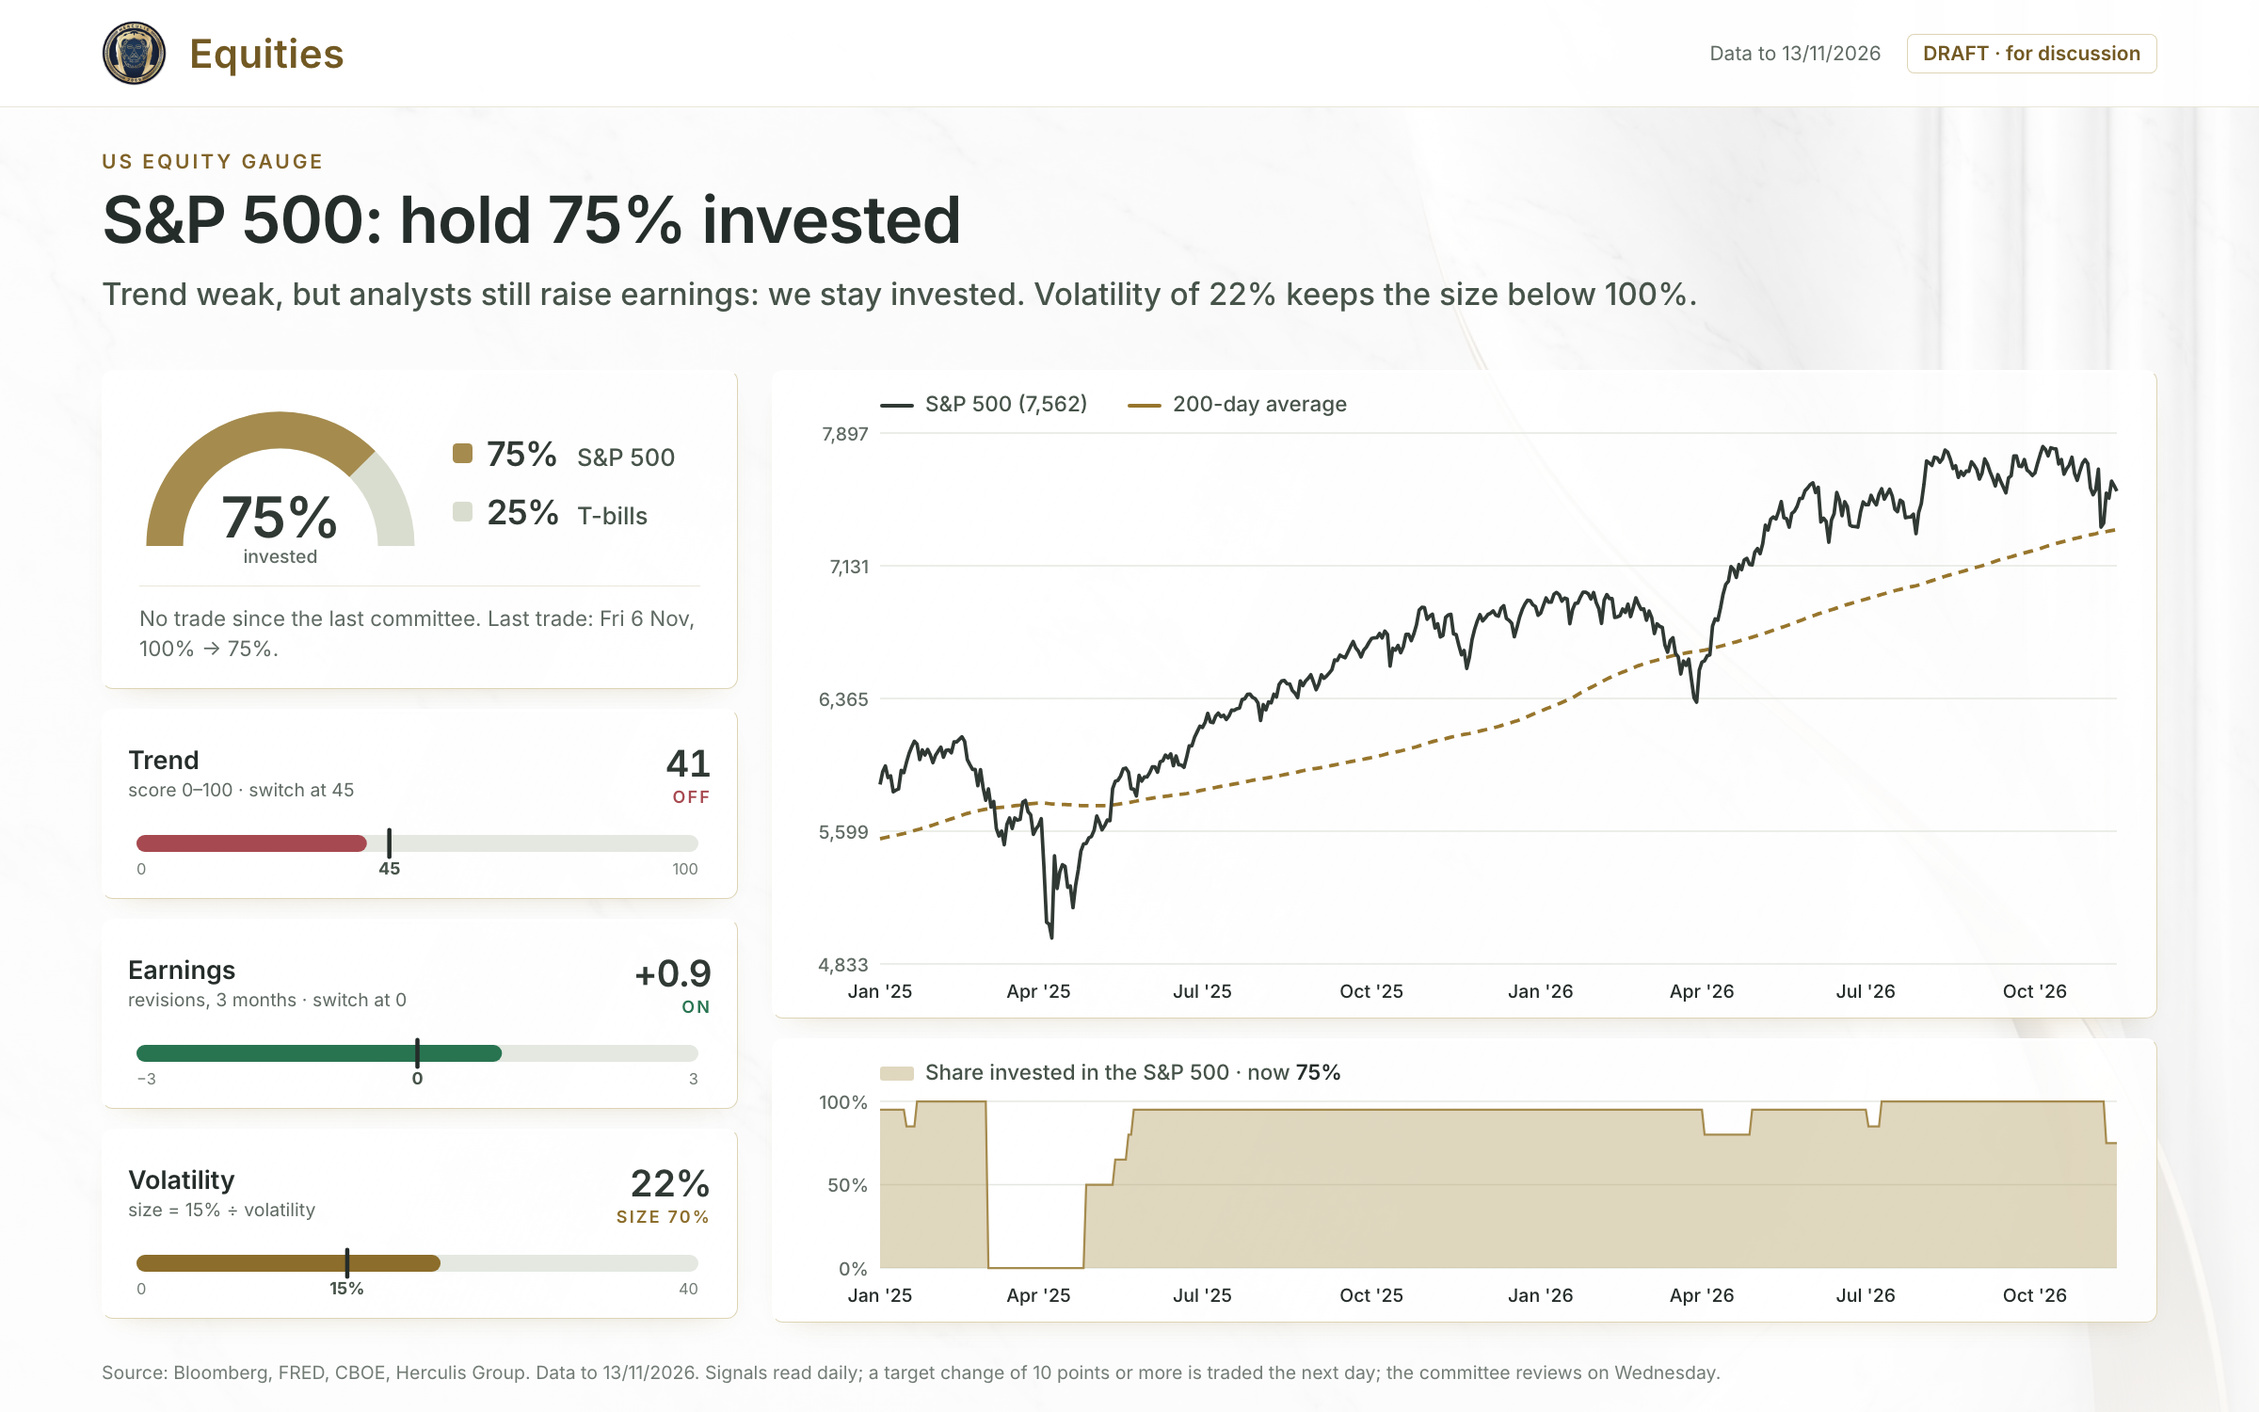
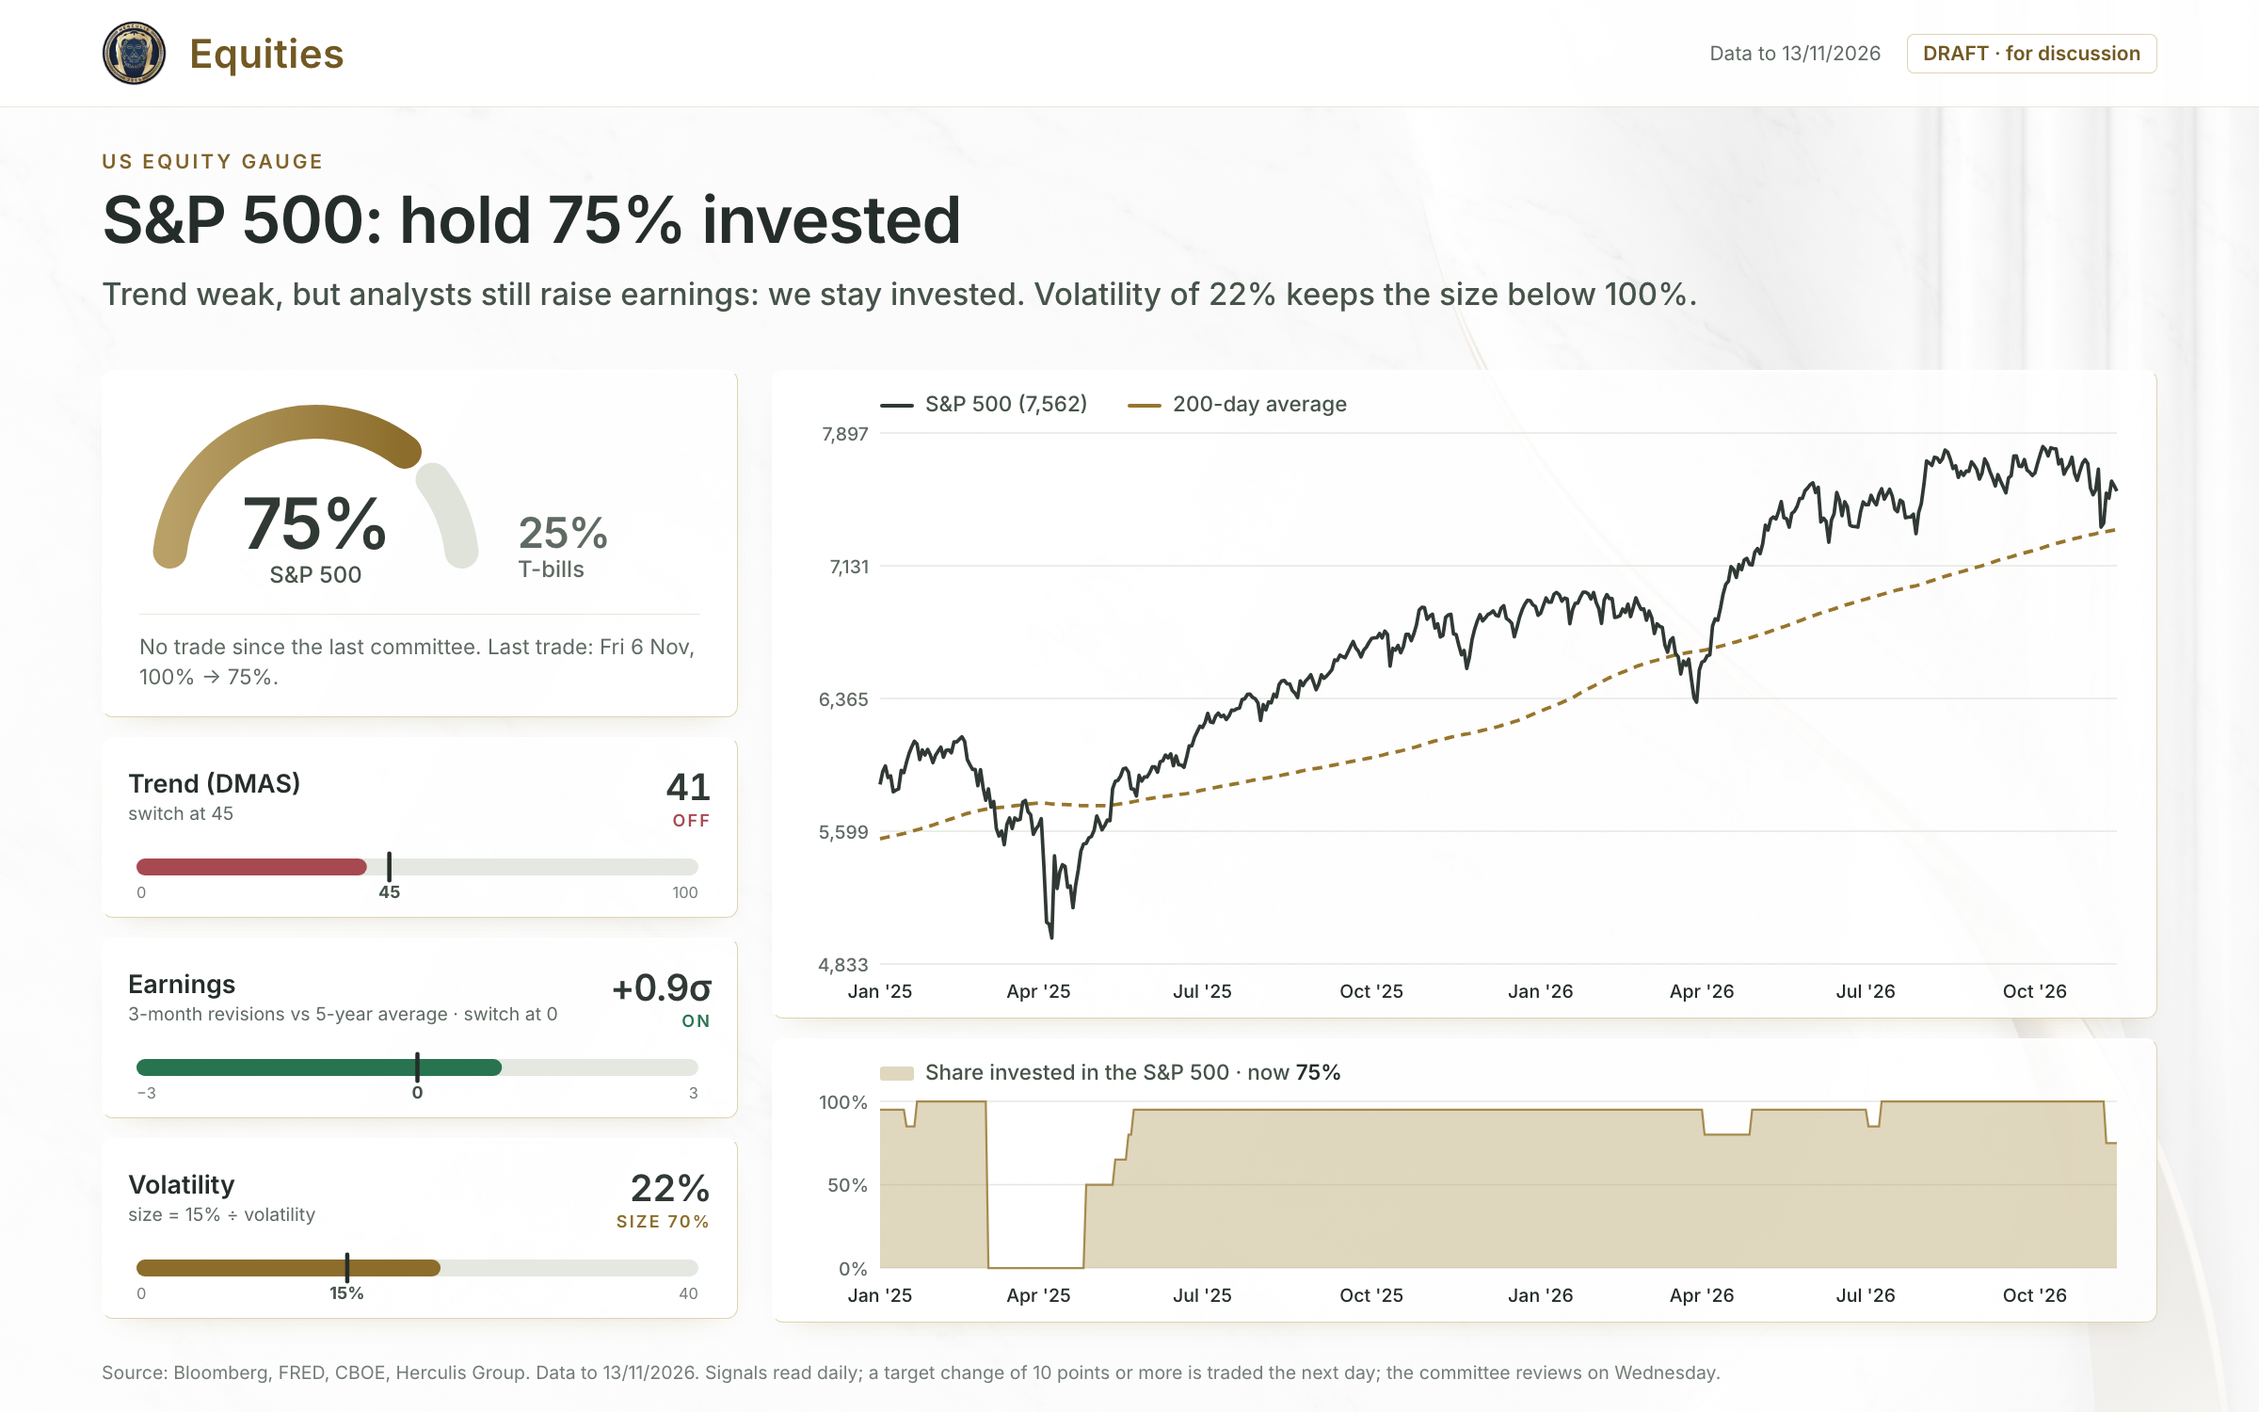
mockups: herculis slide v3 - rounded gauge, DMAS label, earnings in sigma
- Allocation gauge: rounded ends, a small gap between S&P 500 (gold gradient)
  and T-bills (grey). Centre shows "75% S&P 500"; "25% T-bills" sits beside
  the grey arc, so no number appears twice.
- Trend tile: "Trend (DMAS) · switch at 45" ("score 0-100" removed).
- Earnings tile: value in standard deviations (+0.9σ, a z-score, not a %),
  sub-line "3-month revisions vs 5-year average · switch at 0".
- Tile labels are per style in the builder; default --style ic output is byte-identical.

diff --git a/mockups/us_gauge_slide_herculis.html b/mockups/us_gauge_slide_herculis.html
@@ -27,13 +27,11 @@ body{width:1600px;height:1000px;font-family:var(--sans);color:var(--text);positi
  border-radius:8px;box-shadow:inset 1px 1px 1px var(--surface),var(--shadow-sm)}
 /* allocation: S&P 500 / T-bills gauge */
 .dec{padding:20px 26px 18px}
-.alloc{display:flex;align-items:center;gap:22px}
+.alloc{display:flex;align-items:flex-end;gap:18px}
 .alloc svg{flex:none}
-.split{display:flex;flex-direction:column;gap:12px;white-space:nowrap}
-.split div{display:flex;align-items:baseline;gap:10px}
-.split i{display:inline-block;width:14px;height:14px;border-radius:3px;align-self:center}
-.split b{font-size:24px;font-weight:600;letter-spacing:-.02em;color:var(--score);min-width:54px}
-.split span{font-size:17px;font-weight:500;color:var(--text-2)}
+.rest{display:flex;flex-direction:column;padding-bottom:8px;white-space:nowrap}
+.rest b{font-size:30px;font-weight:600;letter-spacing:-.02em;color:var(--muted);line-height:1.1}
+.rest span{font-size:16px;font-weight:500;color:var(--muted)}
 .dec .last{margin-top:14px;padding-top:12px;border-top:1px solid var(--gold-hair);font-size:15px;color:var(--muted);line-height:1.4}
 /* the three signals, stacked */
 .sig{flex:1;display:flex;flex-direction:column;gap:14px}
@@ -59,15 +57,12 @@ svg text{font-family:var(--sans)}
  <div class="left">
   <div class="card dec">
    <div class="alloc">
-    <svg id="g" width="200" height="118" viewBox="0 0 200 118"></svg>
-    <div class="split">
-     <div><i style="background:var(--gold-mid)"></i><b>75%</b><span>S&amp;P 500</span></div>
-     <div><i style="background:var(--line-2)"></i><b>25%</b><span>T-bills</span></div>
-    </div>
+    <svg id="g" width="250" height="138" viewBox="0 0 250 138"></svg>
+    <div class="rest"><b>25%</b><span>T-bills</span></div>
    </div>
    <div class="last">No trade since the last committee. Last trade: Fri 6 Nov, 100% → 75%.</div>
   </div>
-  <div class="sig"><div class="gg"><div class="gh"><div><b>Trend</b><small>score 0–100 · switch at 45</small></div><div class="gv"><strong>41</strong><span style="color:#a74950">OFF</span></div></div><svg width="410" height="38"><rect x="6" y="8" width="398" height="12" rx="6" fill="#e4e8e1"/><rect x="6" y="8" width="163.2" height="12" rx="6" fill="#a74950"/><rect x="183.6" y="3" width="3" height="22" rx="1.5" fill="#252d2a"/><text x="185.1" y="36" font-size="12" fill="#465349" text-anchor="middle" font-weight="700">45</text><text x="6" y="36" font-size="11" fill="#727c75">0</text><text x="404" y="36" font-size="11" fill="#727c75" text-anchor="end">100</text></svg></div><div class="gg"><div class="gh"><div><b>Earnings</b><small>revisions, 3 months · switch at 0</small></div><div class="gv"><strong>+0.9</strong><span style="color:#287451">ON</span></div></div><svg width="410" height="38"><rect x="6" y="8" width="398" height="12" rx="6" fill="#e4e8e1"/><rect x="6" y="8" width="258.9" height="12" rx="6" fill="#287451"/><rect x="203.5" y="3" width="3" height="22" rx="1.5" fill="#252d2a"/><text x="205.0" y="36" font-size="12" fill="#465349" text-anchor="middle" font-weight="700">0</text><text x="6" y="36" font-size="11" fill="#727c75">−3</text><text x="404" y="36" font-size="11" fill="#727c75" text-anchor="end">3</text></svg></div><div class="gg"><div class="gh"><div><b>Volatility</b><small>size = 15% ÷ volatility</small></div><div class="gv"><strong>22%</strong><span style="color:#8c6d2b">SIZE 70%</span></div></div><svg width="410" height="38"><rect x="6" y="8" width="398" height="12" rx="6" fill="#e4e8e1"/><rect x="6" y="8" width="215.4" height="12" rx="6" fill="#8c6d2b"/><rect x="153.8" y="3" width="3" height="22" rx="1.5" fill="#252d2a"/><text x="155.2" y="36" font-size="12" fill="#465349" text-anchor="middle" font-weight="700">15%</text><text x="6" y="36" font-size="11" fill="#727c75">0</text><text x="404" y="36" font-size="11" fill="#727c75" text-anchor="end">40</text></svg></div></div>
+  <div class="sig"><div class="gg"><div class="gh"><div><b>Trend (DMAS)</b><small>switch at 45</small></div><div class="gv"><strong>41</strong><span style="color:#a74950">OFF</span></div></div><svg width="410" height="38"><rect x="6" y="8" width="398" height="12" rx="6" fill="#e4e8e1"/><rect x="6" y="8" width="163.2" height="12" rx="6" fill="#a74950"/><rect x="183.6" y="3" width="3" height="22" rx="1.5" fill="#252d2a"/><text x="185.1" y="36" font-size="12" fill="#465349" text-anchor="middle" font-weight="700">45</text><text x="6" y="36" font-size="11" fill="#727c75">0</text><text x="404" y="36" font-size="11" fill="#727c75" text-anchor="end">100</text></svg></div><div class="gg"><div class="gh"><div><b>Earnings</b><small>3-month revisions vs 5-year average · switch at 0</small></div><div class="gv"><strong>+0.9σ</strong><span style="color:#287451">ON</span></div></div><svg width="410" height="38"><rect x="6" y="8" width="398" height="12" rx="6" fill="#e4e8e1"/><rect x="6" y="8" width="258.9" height="12" rx="6" fill="#287451"/><rect x="203.5" y="3" width="3" height="22" rx="1.5" fill="#252d2a"/><text x="205.0" y="36" font-size="12" fill="#465349" text-anchor="middle" font-weight="700">0</text><text x="6" y="36" font-size="11" fill="#727c75">−3</text><text x="404" y="36" font-size="11" fill="#727c75" text-anchor="end">3</text></svg></div><div class="gg"><div class="gh"><div><b>Volatility</b><small>size = 15% ÷ volatility</small></div><div class="gv"><strong>22%</strong><span style="color:#8c6d2b">SIZE 70%</span></div></div><svg width="410" height="38"><rect x="6" y="8" width="398" height="12" rx="6" fill="#e4e8e1"/><rect x="6" y="8" width="215.4" height="12" rx="6" fill="#8c6d2b"/><rect x="153.8" y="3" width="3" height="22" rx="1.5" fill="#252d2a"/><text x="155.2" y="36" font-size="12" fill="#465349" text-anchor="middle" font-weight="700">15%</text><text x="6" y="36" font-size="11" fill="#727c75">0</text><text x="404" y="36" font-size="11" fill="#727c75" text-anchor="end">40</text></svg></div></div>
  </div>
  <div class="right">
   <div class="card chart px">
@@ -99,11 +94,14 @@ const months=(H)=>{const m0={};let s='';D.dates.forEach((d,i)=>{const m=d.slice(
  let a=`${x(0)},${yw(0)} `,edge='';D.w.forEach((v,i)=>{if(v!==null){a+=`${x(i)},${yw(v)} `;edge+=`${x(i)},${yw(v)} `}});a+=`${x(n-1)},${yw(0)}`;
  s+=`<polygon points="${a}" fill="#b29a5e66"/><polyline fill="none" stroke="#a58b4e" stroke-width="1.5" points="${edge}"/>`;
  document.getElementById('e').innerHTML=s+months(H)}
-// allocation gauge: half ring, gold = share in the S&P 500, grey = T-bills
-{const cx=100,cy=104,r=82,sw=26,pt=f=>{const t=Math.PI*(1-f);return `${(cx+r*Math.cos(t)).toFixed(1)},${(cy-r*Math.sin(t)).toFixed(1)}`};
- let s=`<path d="M${pt(0)} A${r} ${r} 0 0 1 ${pt(1)}" fill="none" stroke="#d9ddcf" stroke-width="${sw}"/>`;
- if(HELD>0)s+=`<path d="M${pt(0)} A${r} ${r} 0 0 1 ${pt(HELD)}" fill="none" stroke="#a58b4e" stroke-width="${sw}"/>`;
- s+=`<text x="${cx}" y="${cy-6}" font-size="40" font-weight="600" text-anchor="middle" fill="#303934" letter-spacing="-1">${Math.round(HELD*100)}%</text>`;
- s+=`<text x="${cx}" y="${cy+12}" font-size="13" font-weight="500" text-anchor="middle" fill="#5f6a63">invested</text>`;
+// allocation gauge: rounded half ring. Gold = share in the S&P 500 (number in the centre), grey = T-bills (label beside it).
+{const cx=125,cy=120,r=104,sw=24,cap=(sw/2)/r/Math.PI,gap=0.012,
+ pt=f=>{const t=Math.PI*(1-f);return `${(cx+r*Math.cos(t)).toFixed(1)},${(cy-r*Math.sin(t)).toFixed(1)}`},
+ arc=(f0,f1,c)=>f1-f0>0.001?`<path d="M${pt(f0)} A${r} ${r} 0 0 1 ${pt(f1)}" fill="none" stroke="${c}" stroke-width="${sw}" stroke-linecap="round"/>`:'';
+ let s=`<defs><linearGradient id="gold" x1="0" x2="1"><stop offset="0" stop-color="#b9a067"/><stop offset="1" stop-color="#8c6d2b"/></linearGradient></defs>`;
+ const a=HELD>=1?1-cap:HELD-gap/2-cap,b=HELD<=0?cap:HELD+gap/2+cap;
+ s+=arc(b,1-cap,'#dfe3da')+arc(cap,a,'url(#gold)');
+ s+=`<text x="${cx}" y="${cy-14}" font-size="50" font-weight="600" text-anchor="middle" fill="#303934" letter-spacing="-1.5">${Math.round(HELD*100)}%</text>`;
+ s+=`<text x="${cx}" y="${cy+10}" font-size="16" font-weight="500" text-anchor="middle" fill="#465349">S&amp;P 500</text>`;
  document.getElementById('g').innerHTML=s}
 </script></body></html>

diff --git a/mockups/core_slide_template_herculis.html b/mockups/core_slide_template_herculis.html
@@ -27,13 +27,11 @@ body{width:1600px;height:1000px;font-family:var(--sans);color:var(--text);positi
  border-radius:8px;box-shadow:inset 1px 1px 1px var(--surface),var(--shadow-sm)}
 /* allocation: S&P 500 / T-bills gauge */
 .dec{padding:20px 26px 18px}
-.alloc{display:flex;align-items:center;gap:22px}
+.alloc{display:flex;align-items:flex-end;gap:18px}
 .alloc svg{flex:none}
-.split{display:flex;flex-direction:column;gap:12px;white-space:nowrap}
-.split div{display:flex;align-items:baseline;gap:10px}
-.split i{display:inline-block;width:14px;height:14px;border-radius:3px;align-self:center}
-.split b{font-size:24px;font-weight:600;letter-spacing:-.02em;color:var(--score);min-width:54px}
-.split span{font-size:17px;font-weight:500;color:var(--text-2)}
+.rest{display:flex;flex-direction:column;padding-bottom:8px;white-space:nowrap}
+.rest b{font-size:30px;font-weight:600;letter-spacing:-.02em;color:var(--muted);line-height:1.1}
+.rest span{font-size:16px;font-weight:500;color:var(--muted)}
 .dec .last{margin-top:14px;padding-top:12px;border-top:1px solid var(--gold-hair);font-size:15px;color:var(--muted);line-height:1.4}
 /* the three signals, stacked */
 .sig{flex:1;display:flex;flex-direction:column;gap:14px}
@@ -59,11 +57,8 @@ svg text{font-family:var(--sans)}
  <div class="left">
   <div class="card dec">
    <div class="alloc">
-    <svg id="g" width="200" height="118" viewBox="0 0 200 118"></svg>
-    <div class="split">
-     <div><i style="background:var(--gold-mid)"></i><b>{{HELD}}</b><span>S&amp;P 500</span></div>
-     <div><i style="background:var(--line-2)"></i><b>{{CASHW}}</b><span>T-bills</span></div>
-    </div>
+    <svg id="g" width="250" height="138" viewBox="0 0 250 138"></svg>
+    <div class="rest"><b>{{CASHW}}</b><span>T-bills</span></div>
    </div>
    <div class="last">{{MOVE}}</div>
   </div>
@@ -99,11 +94,14 @@ const months=(H)=>{const m0={};let s='';D.dates.forEach((d,i)=>{const m=d.slice(
  let a=`${x(0)},${yw(0)} `,edge='';D.w.forEach((v,i)=>{if(v!==null){a+=`${x(i)},${yw(v)} `;edge+=`${x(i)},${yw(v)} `}});a+=`${x(n-1)},${yw(0)}`;
  s+=`<polygon points="${a}" fill="#b29a5e66"/><polyline fill="none" stroke="#a58b4e" stroke-width="1.5" points="${edge}"/>`;
  document.getElementById('e').innerHTML=s+months(H)}
-// allocation gauge: half ring, gold = share in the S&P 500, grey = T-bills
-{const cx=100,cy=104,r=82,sw=26,pt=f=>{const t=Math.PI*(1-f);return `${(cx+r*Math.cos(t)).toFixed(1)},${(cy-r*Math.sin(t)).toFixed(1)}`};
- let s=`<path d="M${pt(0)} A${r} ${r} 0 0 1 ${pt(1)}" fill="none" stroke="#d9ddcf" stroke-width="${sw}"/>`;
- if(HELD>0)s+=`<path d="M${pt(0)} A${r} ${r} 0 0 1 ${pt(HELD)}" fill="none" stroke="#a58b4e" stroke-width="${sw}"/>`;
- s+=`<text x="${cx}" y="${cy-6}" font-size="40" font-weight="600" text-anchor="middle" fill="#303934" letter-spacing="-1">${Math.round(HELD*100)}%</text>`;
- s+=`<text x="${cx}" y="${cy+12}" font-size="13" font-weight="500" text-anchor="middle" fill="#5f6a63">invested</text>`;
+// allocation gauge: rounded half ring. Gold = share in the S&P 500 (number in the centre), grey = T-bills (label beside it).
+{const cx=125,cy=120,r=104,sw=24,cap=(sw/2)/r/Math.PI,gap=0.012,
+ pt=f=>{const t=Math.PI*(1-f);return `${(cx+r*Math.cos(t)).toFixed(1)},${(cy-r*Math.sin(t)).toFixed(1)}`},
+ arc=(f0,f1,c)=>f1-f0>0.001?`<path d="M${pt(f0)} A${r} ${r} 0 0 1 ${pt(f1)}" fill="none" stroke="${c}" stroke-width="${sw}" stroke-linecap="round"/>`:'';
+ let s=`<defs><linearGradient id="gold" x1="0" x2="1"><stop offset="0" stop-color="#b9a067"/><stop offset="1" stop-color="#8c6d2b"/></linearGradient></defs>`;
+ const a=HELD>=1?1-cap:HELD-gap/2-cap,b=HELD<=0?cap:HELD+gap/2+cap;
+ s+=arc(b,1-cap,'#dfe3da')+arc(cap,a,'url(#gold)');
+ s+=`<text x="${cx}" y="${cy-14}" font-size="50" font-weight="600" text-anchor="middle" fill="#303934" letter-spacing="-1.5">${Math.round(HELD*100)}%</text>`;
+ s+=`<text x="${cx}" y="${cy+10}" font-size="16" font-weight="500" text-anchor="middle" fill="#465349">S&amp;P 500</text>`;
  document.getElementById('g').innerHTML=s}
 </script></body></html>

diff --git a/mockups/build_core_slide.py b/mockups/build_core_slide.py
@@ -17,11 +17,13 @@ HERE = Path(__file__).resolve().parent
 STYLES = {
     'ic': dict(GREEN='#16A34A', RED='#DC2626', AMBER='#D97706', TRACK='#E5E9F0', MARK='#040C38', LAB='#475569',
                END='#94A3B8', GREY='#94A3B8', tpl='core_slide_template.html', out='us_gauge_slide.html',
-               name='US equities', W=268),
+               name='US equities', W=268, trend=('Trend', 'score 0–100 · switch at 45'),
+               earn=('Earnings', 'revisions, 3 months · switch at 0', '')),
     # herculis.ai tokens (market-herculis/quant-web/site/tokens.css): positive, negative, gold accent, text, muted, dim
     'herculis': dict(GREEN='#287451', RED='#a74950', AMBER='#8c6d2b', TRACK='#e4e8e1', MARK='#252d2a', LAB='#465349',
                      END='#727c75', GREY='#8597a0', tpl='core_slide_template_herculis.html', out='us_gauge_slide_herculis.html',
-                     name='S&amp;P 500', W=410),
+                     name='S&amp;P 500', W=410, trend=('Trend (DMAS)', 'switch at 45'),
+                     earn=('Earnings', '3-month revisions vs 5-year average · switch at 0', 'σ')),
 }
 GREEN, RED, AMBER, TRACK, MARK, LAB, END, GREY = (STYLES['ic'][k] for k in ('GREEN', 'RED', 'AMBER', 'TRACK', 'MARK', 'LAB', 'END', 'GREY'))
 
@@ -107,9 +109,9 @@ def main():
                       f'breadth: up/down {n["breadth_ratio"]:.2f} (trigger 1.97)'))
     W = S['W']
     gauges = ''.join([
-        gauge('Trend', 'score 0–100 · switch at 45', f'{n["dmas"]:.0f}', 'ON' if trend_in else 'OFF', GREEN if trend_in else RED,
+        gauge(*S['trend'], f'{n["dmas"]:.0f}', 'ON' if trend_in else 'OFF', GREEN if trend_in else RED,
               bar(n['dmas'], 0, 100, GREEN if trend_in else RED, 45, '45', W)),
-        gauge('Earnings', 'revisions, 3 months · switch at 0', minus(f'{n["rev_z"]:+.1f}'), 'ON' if earn_in else 'OFF',
+        gauge(*S['earn'][:2], minus(f'{n["rev_z"]:+.1f}') + S['earn'][2], 'ON' if earn_in else 'OFF',
               GREEN if earn_in else RED, bar(n['rev_z'], -3, 3, GREEN if earn_in else RED, 0, '0', W)),
         gauge('Volatility', 'size = 15% ÷ volatility', f'{sig:.0%}', f'SIZE {want:.0%}',
               AMBER if n['target'] < 1 else GREEN, bar(sig * 100, 0, 40, AMBER if sig > .15 else GREEN, 15, '15%', W)),
